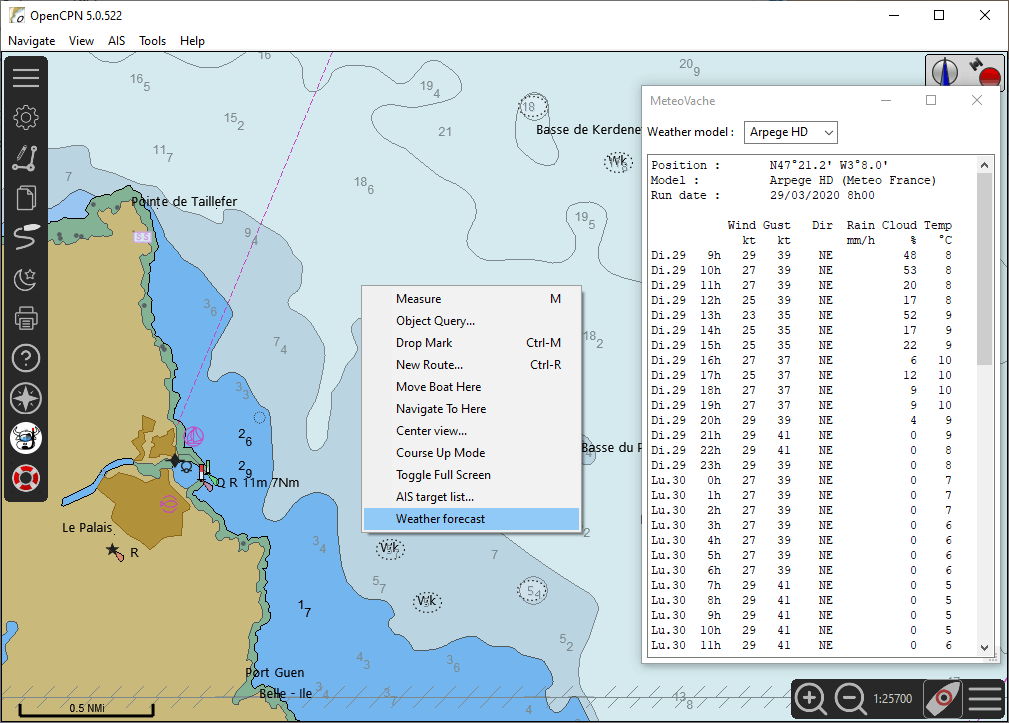
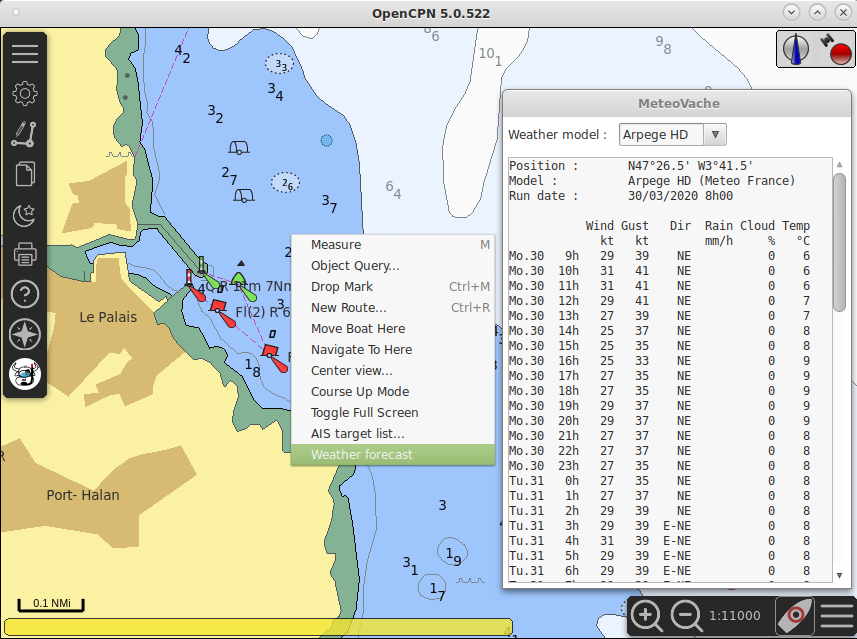
Fix untranslated strings

diff --git a/src/DateTime.cpp b/src/DateTime.cpp
@@ -3,15 +3,16 @@
 #include <time.h>
 #include <string.h>
 #include <stdio.h>
+#include <wx/translation.h>
 
-char *DateTime::dayNames[7] =
-{ (char*) "Dimanche", (char*) "Lundi", (char*) "Mardi", (char*) "Mercredi",
-		(char*) "Jeudi", (char*) "Vendredi", (char*) "Samedi" };
-char *DateTime::monthNames[12] =
-{ (char*) "Janvier", (char*) "Février", (char*) "Mars", (char*) "Avril",
-		(char*) "Mai", (char*) "Juin", (char*) "Juillet", (char*) "Août",
-		(char*) "Septembre", (char*) "Octobre", (char*) "Novembre",
-		(char*) "Décembre" };
+std::string DateTime::dayNames[7] =
+{ _("Sunday").ToStdString(), _("Monday").ToStdString(), _("Tuesday").ToStdString(), _("Wednesday").ToStdString(),
+		_("Thursday").ToStdString(), _("Friday").ToStdString(), _("Saturday").ToStdString() };
+std::string DateTime::monthNames[12] =
+{ _("January").ToStdString(), _("February").ToStdString(), _("March").ToStdString(), _("April").ToStdString(),
+		_("May").ToStdString(), _("June").ToStdString(), _("July").ToStdString(), _("August").ToStdString(),
+		_("September").ToStdString(), _("October").ToStdString(), _("November").ToStdString(),
+		_("December").ToStdString() };
 
 DateTime::DateTime() :
 		timeValue(0)
@@ -103,7 +104,7 @@ int DateTime::getGmtMonth()
 	return (timeData->tm_mon + 1);
 }
 
-const char* DateTime::getLocalMonthName()
+std::string DateTime::getLocalMonthName()
 {
 	struct tm *timeData;
 	time_t tv = timeValue;
@@ -113,7 +114,7 @@ const char* DateTime::getLocalMonthName()
 	return (monthNames[timeData->tm_mon]);
 }
 
-const char* DateTime::getGmtMonthName()
+std::string DateTime::getGmtMonthName()
 {
 	struct tm *timeData;
 	time_t tv = timeValue;
@@ -143,7 +144,7 @@ int DateTime::getGmtDay()
 	return (timeData->tm_mday);
 }
 
-const char* DateTime::getLocalDayName()
+std::string DateTime::getLocalDayName()
 {
 	struct tm *timeData;
 	time_t tv = timeValue;
@@ -153,7 +154,7 @@ const char* DateTime::getLocalDayName()
 	return (dayNames[timeData->tm_wday]);
 }
 
-const char* DateTime::getGmtDayName()
+std::string DateTime::getGmtDayName()
 {
 	struct tm *timeData;
 	time_t tv = timeValue;

diff --git a/src/DateTime.h b/src/DateTime.h
@@ -2,14 +2,14 @@
 #define DATETIME_H_
 
 #include <time.h>
+#include <string>
 
-class DateTime
-{
+class DateTime {
 
 private:
 	time_t timeValue;
-	static char *dayNames[7];
-	static char *monthNames[12];
+	static std::string dayNames[7];
+	static std::string monthNames[12];
 
 public:
 	DateTime();
@@ -21,17 +21,17 @@ public:
 
 	int getLocalYear();
 	int getLocalMonth();
-	const char* getLocalMonthName();
+	std::string getLocalMonthName();
 	int getLocalDay();
-	const char* getLocalDayName();
+	std::string getLocalDayName();
 	int getLocalHour();
 	int getLocalMinute();
 
 	int getGmtYear();
 	int getGmtMonth();
-	const char* getGmtMonthName();
+	std::string getGmtMonthName();
 	int getGmtDay();
-	const char* getGmtDayName();
+	std::string getGmtDayName();
 	int getGmtHour();
 	int getGmtMinute();
 

diff --git a/src/MVReportFrame.cpp b/src/MVReportFrame.cpp
@@ -169,7 +169,7 @@ void MVReportFrame::PublishWeatherReport(
 	modelInfo = modelInfo.Append(_(wxString::FromUTF8("             kt   kt        mm/h     %   °C\n")));
 
 	DateTime stepTime = runDate;
-	const char *dayName;
+	std::string dayName;
 	for (int step = 0; step < forecast->getNumberOfSteps(); step += 1)
 	{
 		stepTime.addHours(forecast->getTimeStepInHours());
